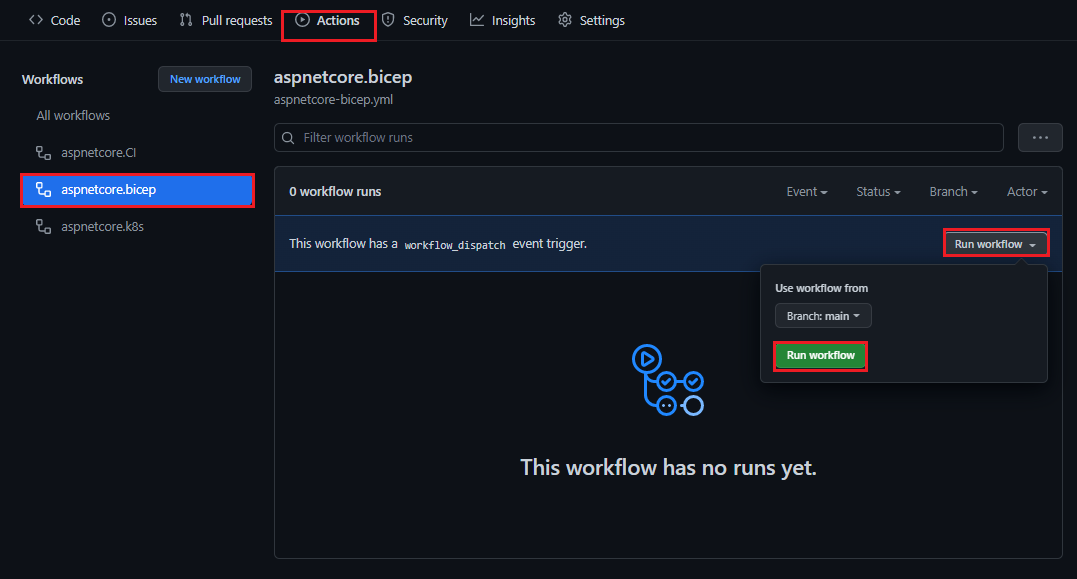
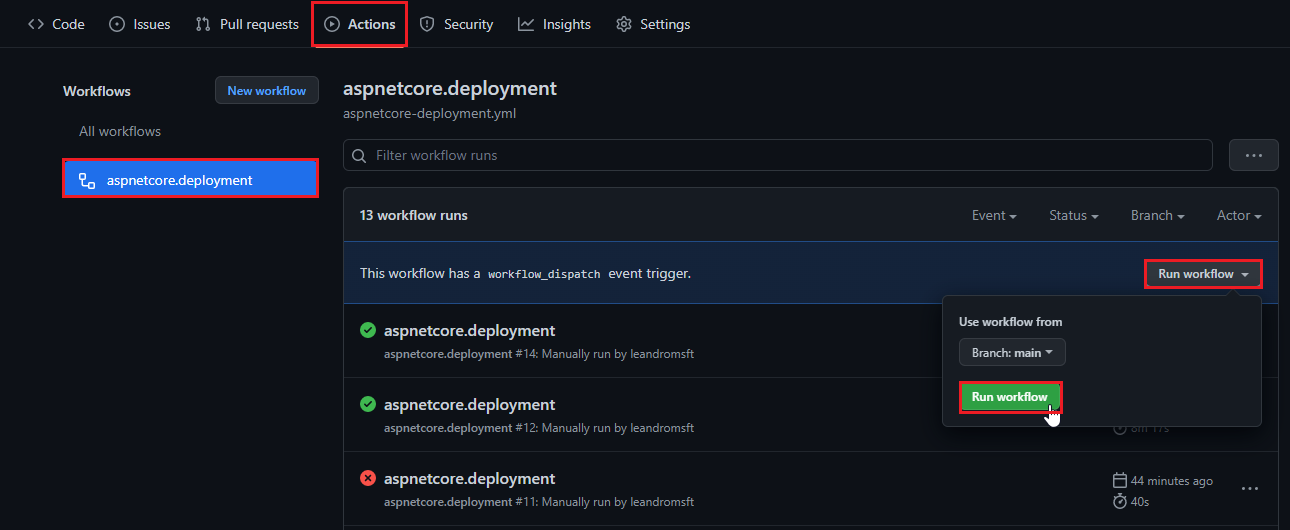
PR - Changes to deployment application (#5)
* testing az cli

* testing az cli

* clean the workflow

* update docs

* changes for SQL

* change bicep for sql

* change workflow

* change docs

diff --git a/README.md b/README.md
@@ -34,21 +34,17 @@ cd dotnet-container-app
 code .
 ```
 
-This application has the *.vscode/launch.json* file with the compound settings to run both projects (API and APP) at the same time
-
-![Compound Settings](/images/img02.png "Application")
-
 You will need to configure the ```Connection String``` in file */src/aspnetcorewebapi/appsettings.json*
 
 ![Connection String](/images/img10.png "Application")
 
+```
 Connection String example: *Data Source=(LocalDb)\\MSSQLLocalDB;Initial Catalog=TodoItem_DB;Integrated Security=SSPI;*
+```
 
 To run the application in debug mode, select the *Debug* menu and select the *aspnetcorewebapi & aspnetcorewebapp* option as shown in the image below
 
 ![Running](/images/img03.png "Application")
-
-Links to: [Web App](https://localhost:6001/) / [Web Api](https://localhost:5001/)
 
 Another option to run application based on docker containers. This application user 3 containers as show bellow:
 
@@ -56,7 +52,7 @@ Another option to run application based on docker containers. This application u
 - **aspnetcorewebapi:** Rest APIs to communicate with SQL Server database (backend)
 - **aspnetcorewebapp:** ASP NET MVC application to communicate with API (frontend)
 
- In the root directory of the application we have the *DockerCompose.yml* file with all the necessary configurations to running the application using containers. To start run the command below.
+In the root directory of the application we have the *DockerCompose.yml* file with all the necessary configurations to running the application using containers. To start run the command below.
 
 ```sh
 docker-compose -f 'DockerCompose.yml' up --build -d
@@ -78,27 +74,17 @@ This bicep file will create the following resources in Azure.
 
 - **[Azure Monitor](https://docs.microsoft.com/en-us/azure/azure-monitor/overview)** helps you maximize the availability and performance of your applications and services. It delivers a comprehensive solution for collecting, analyzing, and acting on telemetry from your cloud and on-premises environments.
 
-First step is creating the Azure Resource Group
+First step is create a Service Principal identity to GitHub connect to Azure Subscription
 
 ```sh
-$rgName = 'rg-dotnet-containerapp'
-$location = 'eastus'
-
-# Authenticate to Azure
+# Login Azure
 az login
 
-# Ger subscription ID
+# Get subscription ID
 $subscriptionID = $(az account show --query id -o tsv)
 
-# Create resource group
-az group create --name $rgName --location $location
-```
-
-Next step is create a Service Principal identity to GitHub connect in this Azure resoure group
-
-```sh
 # Create Service Principal
-az ad sp create-for-rbac --name <Service Principal Name> --role contributor --scopes /subscriptions/$subscriptionID/resourceGroups/$rgName --sdk-auth 
+az ad sp create-for-rbac --name <Service Principal Name> --role contributor --scopes /subscriptions/$subscriptionID --sdk-auth 
 ```
 
 The command should output a JSON object similar to this:
@@ -129,34 +115,14 @@ Store the output JSON as the value of a GitHub Actions secret named 'AZURE_CREDE
 
 ![Add Secret](/images/img05.png "Add Secret")
 
-Now we are ready to start the workflow [aspnetcore-bicep.yml](.github/workflows/aspnetcore-bicep.yml) that executes the bicep file and creates all the resources that the application needs.
+Create other two secrets
+1. Store SQL username 'AZURE_SQL_USERNAME' 
+2. Store SQL password 'AZURE_SQL_PASSWORD'
 
-- Navigate to the file [aspnetcore-bicep.yml](.github/workflows/aspnetcore-bicep.yml) and replace the variable values.
-  - AZ_ACR_NAME
-  - AZ_AKS_NAME
-  - AZ_SQLSERVER_NAME
+Now we are ready to start the workflow [aspnetcore-deployment.yml](.github/workflows/aspnetcore-deployment.yml). This workflow has the following these steps
 
-- Under your repository name, click *Actions* tab.
-- In the left sidebar, click the workflow "aspnetcore.bicep".
-- Above the list of workflow runs, select *Run workflow*.
-- Use the Branch dropdown to select the workflow's main branch, Click Run workflow.
-
-![Bicep Workflow](/images/img06.png "Bicep Workflow")
-
-After deployment, below resources will be created
-
-![Azure Resources](/images/img07.png "Azure Resources")
-
-Errors can occur when you use a resource provider you haven't already used in your Azure subscription. [Resolve errors for resource provider registration](https://docs.microsoft.com/en-us/azure/azure-resource-manager/troubleshooting/error-register-resource-provider?tabs=azure-cli).
-
-After our environment is available, we will need the database connection string, store the output value as a GitHub secret named SQL_CONNECTION.
-
-```
-az sql db show-connection-string --name TodoItem_DB --server <SQL Server Name> --client ado.net --output tsv
-```
-
-Now we can deploy our application to AKS by starting the workflow [aspnetcore.k8s.yml](.github/workflows/aspnetcore-k8s.yml). This workflow has the following steps
-
+- **IAC**
+  - Run the Bicep file to create environment
 - **Build**
   - Check out source code
   - Docker Login to ACR
@@ -169,7 +135,29 @@ Now we can deploy our application to AKS by starting the workflow [aspnetcore.k8
   - Create Secret
   - Deploy the application to AKS
 
-![Deploy](/images/img12.png "Deploy")
+Navigate to the file [aspnetcore-deployment.yml](.github/workflows/aspnetcore-deployment.yml) and replace the variable values.
+- AZ_RG_NAME
+- AZ_RG_LOCATION
+- AZ_ACR_NAME
+- AZ_AKS_NAME
+- AZ_SQLSERVER_NAME
+
+This example using manual trigger, to start the workflow following these steps:
+
+- Under your repository name, click *Actions* tab.
+- In the left sidebar, click the workflow *aspnetcore-deployment*.
+- Above the list of workflow runs, select *Run workflow*.
+- Use the Branch dropdown to select the workflow's main branch, Click *Run workflow*.
+
+![Bicep Workflow](/images/img06.png "Bicep Workflow")
+
+Workflow result
+
+![Azure Resources](/images/img13.png "Azure Resources")
+
+After deployment, below resources will be created in your Azure subscription
+
+![Azure Resources](/images/img07.png "Azure Resources")
 
 After the workflow ends, our application will be available for use.
 
